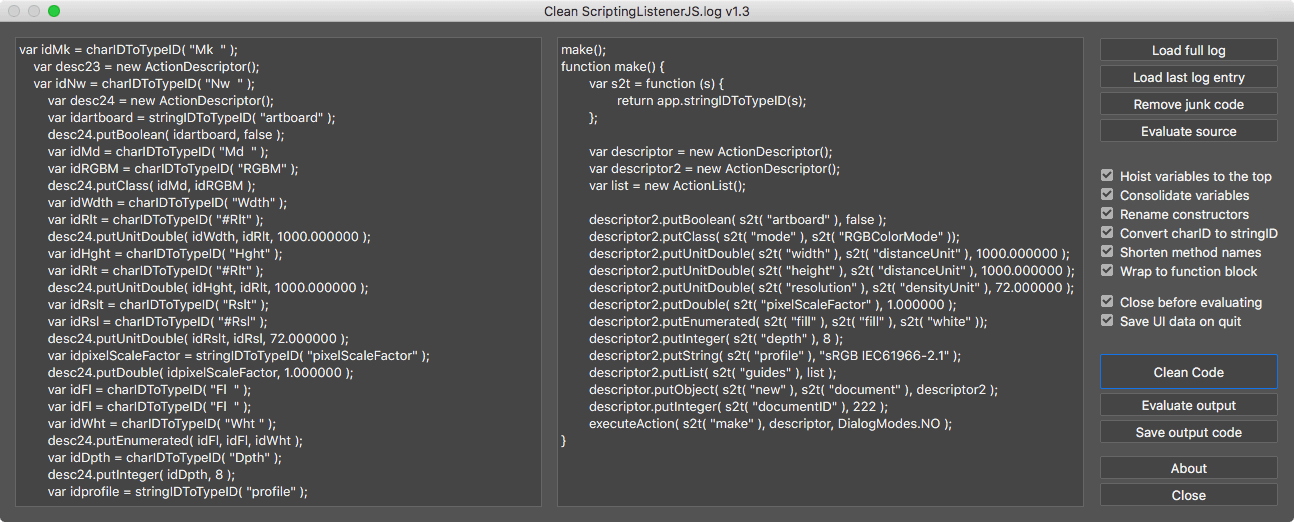
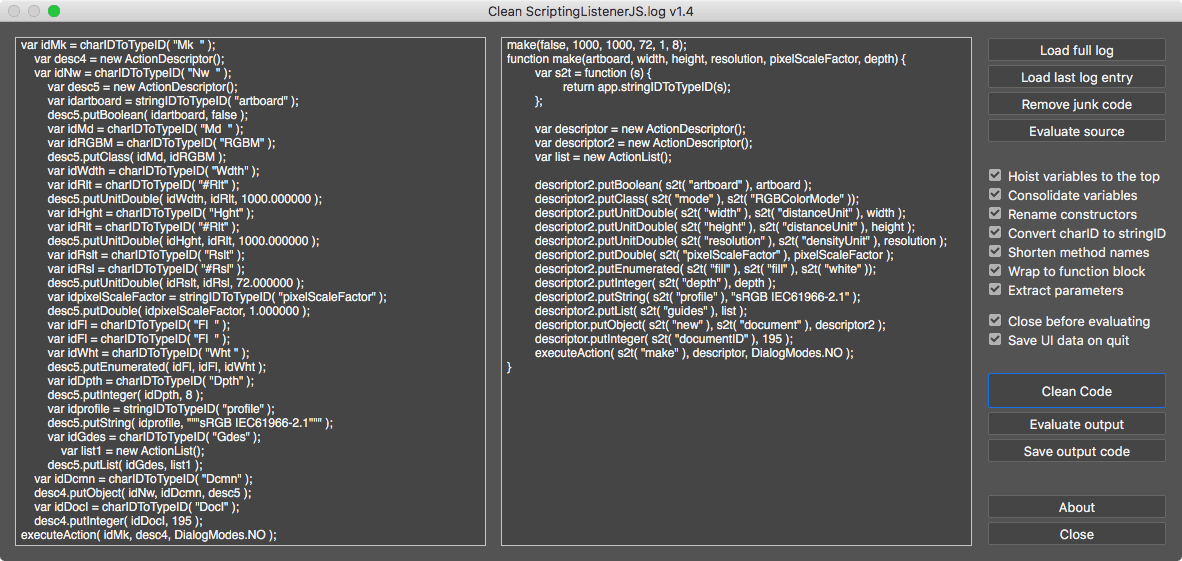
Prepare 1.4.0 release

Changed region(s): [[0.0, 0.0, 1.0, 0.9808], [0.8223, 0.6743, 1.0, 0.8582], [0.8832, 0.8889, 0.9442, 0.9808]]

diff --git a/Clean SL.jsx b/Clean SL.jsx
@@ -123,7 +123,7 @@
 	var script = {
 		name: "Clean ScriptingListenerJS.log",
 		nameShort: "Clean SL",
-		version: "1.4-beta",
+		version: "1.4",
 		developer: {
 			name: File.decode("Tomas%20%C5%A0ink%C5%ABnas"), // Tomas Šinkūnas
 			url: "http://www.rendertom.com"
@@ -132,7 +132,7 @@
 			return this.nameShort + " v" + this.version + "\n" + "Photoshop utility tool to clean " +
 				"up ScriptingListenerJS log file. Script performs multiple actions such as cleaning-up " +
 				"variable names and hoisting them to the top, wraps code block into function, " +
-				"converts charID to string ID and such.\n\n" +
+				"converts charID to string ID, extracts parameter values and such.\n\n" +
 				"Resulting code is clean and maintains better readability.\n\n" +
 				"Developed by " + this.developer.name + "\n" + this.developer.url;
 		}

diff --git a/README.md b/README.md
@@ -1,27 +1,33 @@
-![Clean SL](/Clean%20SL.png)
+![Clean SL](Clean%20SL.png)
 
 # Clean SL #
+
 Clean SL (Clean ScriptingListenerJS.log) is a utility tool for Adobe Photoshop to clean up ScriptingListenerJS.log file. 
 
 Script performs multiple actions such as cleaning-up variable names and hoisting them to the top, wraps code block into function, converts charID to string ID and such. Resulting code is clean and maintains better readability.
 
-### Features: ###
+### Features ###
+
 * Load entire ScriptingListenerJS.log content
 * Load only last entry in ScriptingListenerJS.log
 * Enter ScriptingListenerJS code manually
 
-### Options: ###
+### Options ###
+
 * Hoist variable declaration to the top
 * Consolidate variables
 * Give descriptive variable names
 * Convert charID to stringID for better readability
 * Replace stringIDToTypeID() to s2t() function
 * Wrap to function block
+* Extract parameter values
 * Close Clean SL window before evaluating code
 * Save UI data on script quit.
 
-### Example: ###
+### Example ###
+
 From this:
+
 ```javascript
 var idMk = charIDToTypeID( "Mk  " );
     var desc4 = new ActionDescriptor();
@@ -62,60 +68,65 @@ executeAction( idMk, desc4, DialogModes.NO );
 ```
 
 To this:
+
 ```javascript
-make();
-function make() {
-	var s2t = function (s) {
-		return app.stringIDToTypeID(s);
-	};
+make(false, 1000, 1000, 72, 1, 8);
+function make(artboard, width, height, resolution, pixelScaleFactor, depth) {
+    var s2t = function (s) {
+        return app.stringIDToTypeID(s);
+    };
 
-	var descriptor = new ActionDescriptor();
-	var descriptor2 = new ActionDescriptor();
-	var list = new ActionList();
+    var descriptor = new ActionDescriptor();
+    var descriptor2 = new ActionDescriptor();
+    var list = new ActionList();
 
-	descriptor2.putBoolean( s2t( "artboard" ), false );
-	descriptor2.putClass( s2t( "mode" ), s2t( "RGBColorMode" ));
-	descriptor2.putUnitDouble( s2t( "width" ), s2t( "#Rlt" ), 1000.000000 );
-	descriptor2.putUnitDouble( s2t( "height" ), s2t( "#Rlt" ), 1000.000000 );
-	descriptor2.putUnitDouble( s2t( "resolution" ), s2t( "#Rsl" ), 72.000000 );
-	descriptor2.putDouble( s2t( "pixelScaleFactor" ), 1.000000 );
-	descriptor2.putEnumerated( s2t( "fill" ), s2t( "fill" ), s2t( "white" ));
-	descriptor2.putInteger( s2t( "depth" ), 8 );
-	descriptor2.putString( s2t( "profile" ), "sRGB IEC61966-2.1" );
-	descriptor2.putList( s2t( "guides" ), list );
-	descriptor.putObject( s2t( "new" ), s2t( "document" ), descriptor2 );
-	descriptor.putInteger( s2t( "documentID" ), 195 );
-	executeAction( s2t( "make" ), descriptor, DialogModes.NO );
+    descriptor2.putBoolean( s2t( "artboard" ), artboard );
+    descriptor2.putClass( s2t( "mode" ), s2t( "RGBColorMode" ));
+    descriptor2.putUnitDouble( s2t( "width" ), s2t( "distanceUnit" ), width );
+    descriptor2.putUnitDouble( s2t( "height" ), s2t( "distanceUnit" ), height );
+    descriptor2.putUnitDouble( s2t( "resolution" ), s2t( "densityUnit" ), resolution );
+    descriptor2.putDouble( s2t( "pixelScaleFactor" ), pixelScaleFactor );
+    descriptor2.putEnumerated( s2t( "fill" ), s2t( "fill" ), s2t( "white" ));
+    descriptor2.putInteger( s2t( "depth" ), depth );
+    descriptor2.putString( s2t( "profile" ), "sRGB IEC61966-2.1" );
+    descriptor2.putList( s2t( "guides" ), list );
+    descriptor.putObject( s2t( "new" ), s2t( "document" ), descriptor2 );
+    descriptor.putInteger( s2t( "documentID" ), 195 );
+    executeAction( s2t( "make" ), descriptor, DialogModes.NO );
 }
 ```
 
-### Change log: ###
+### Change log ###
+
+* v1.4 - 2018 03 29 :
+  * Adds option to extract parameter values;
 * v1.3.1 - 2017 09 13 :
-	* Skips converting CharID to StringID if CharID does not have corresponding StringID;
-	* Validates function and variable names against reserved JS words.
+  * Skips converting CharID to StringID if CharID does not have corresponding StringID;
+  * Validates function and variable names against reserved JS words.
 * v1.3 - 2017 09 12 : _Please remove old Clean SL Settings.txt file before using this update_
-	* Renames "Descriptive variable name" to "Rename constructors"
-	* Renames "Shorten stringIDToTypeID" to "Shorten method names"
-	* Exposes "predefined" object with variables for user to change in code
-	* Removes duplicate variable declarations and sorts them alphabetically when hoisting
-	* "Shorten method names" shortens both charIDToTypeID() and stringIDToTypeID()
-	* Skips converting charIDtoStringID() if CharID has conflicting StringID values
-	* Parses variable declarations to check if same variable has different values
+  * Renames "Descriptive variable name" to "Rename constructors"
+  * Renames "Shorten stringIDToTypeID" to "Shorten method names"
+  * Exposes "predefined" object with variables for user to change in code
+  * Removes duplicate variable declarations and sorts them alphabetically when hoisting
+  * "Shorten method names" shortens both charIDToTypeID() and stringIDToTypeID()
+  * Skips converting charIDtoStringID() if CharID has conflicting StringID values
+  * Parses variable declarations to check if same variable has different values
 * v1.2 - 2017 09 10 :
-	* Adds option to remove Action Managers junk code
-	* Adds option to close Clean SL script before evaluating code
-	* Adds option to save UI data on script quit
-	* Fixes invalid function names
-	* Replaces three quotes with one quote
-	* Uses external JSON object to read/write UI data
-	* Saves output code as JSX instead of TXT
-	* Adds tooltips everywhere
-	* Removes start-up demo code
-	* Removes duplicate functions
+  * Adds option to remove Action Managers junk code
+  * Adds option to close Clean SL script before evaluating code
+  * Adds option to save UI data on script quit
+  * Fixes invalid function names
+  * Replaces three quotes with one quote
+  * Uses external JSON object to read/write UI data
+  * Saves output code as JSX instead of TXT
+  * Adds tooltips everywhere
+  * Removes start-up demo code
+  * Removes duplicate functions
 * v1.1 - 2017 09 08 - Increments function names when processing multiple logs
 * v1 - 2017 09 07 - Initial release
 
 ### Installation ###
+
 Clone or download this repository and place **Clean SJ.jsx** script to Photoshop’s Scripts folder:
 
 ```Adobe Photoshop CC 20XX -> Presets -> Scripts -> **Clean JS.jsx**```
@@ -124,14 +135,16 @@ Restart Photoshop to access **Clean JS** script from File -> Scripts
 
 ---------
 Developed by Tomas Šinkūnas 
+
 www.rendertom.com
+
 ---------
 
 Released as open-source under the MIT license:
 
 The MIT License (MIT)
 
-Copyright (c) 2017 Tomas Šinkūnas www.renderTom.com
+Copyright (c) 2018 Tomas Šinkūnas www.renderTom.com
 
 Permission is hereby granted, free of charge, to any person obtaining a copy of this software and associated documentation files (the "Software"), to deal in the Software without restriction, including without limitation the rights to use, copy, modify, merge, publish, distribute, sublicense, and/or sell copies of the Software, and to permit persons to whom the Software is furnished to do so, subject to the following conditions:
 
